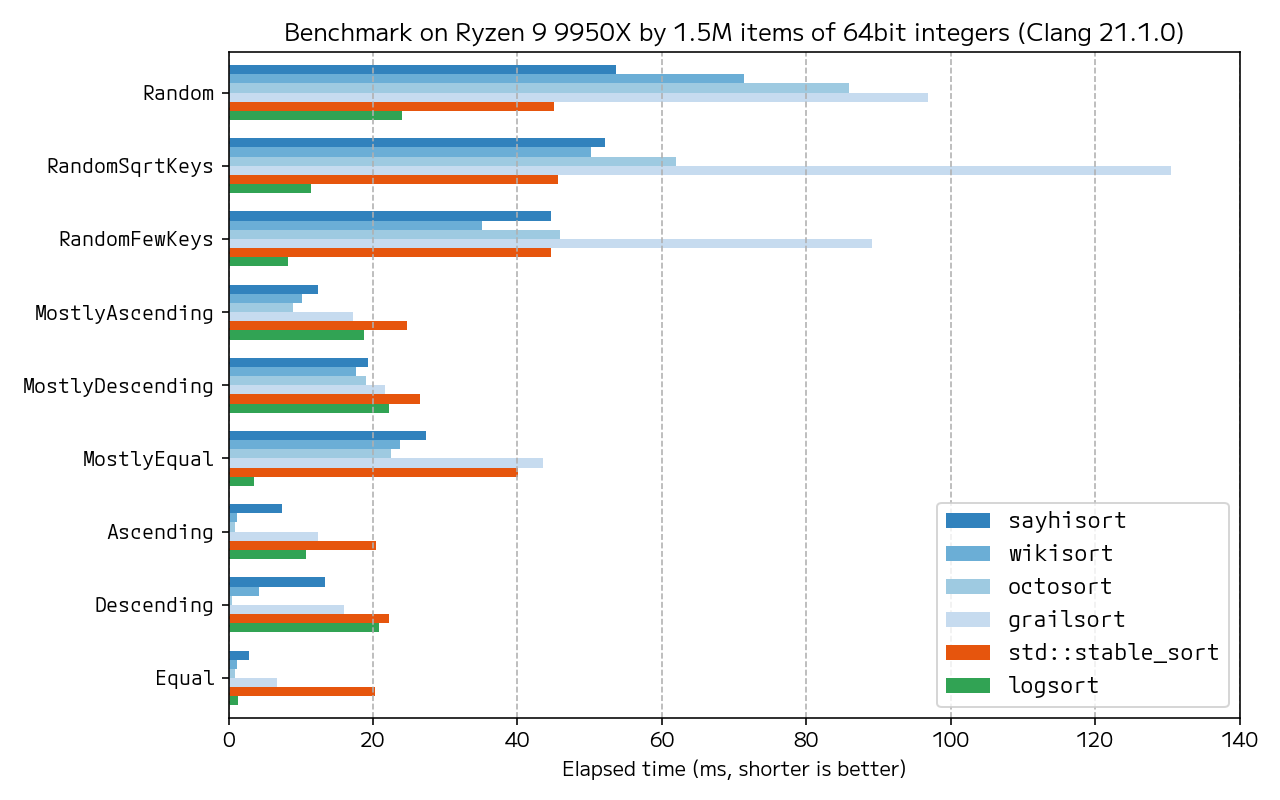
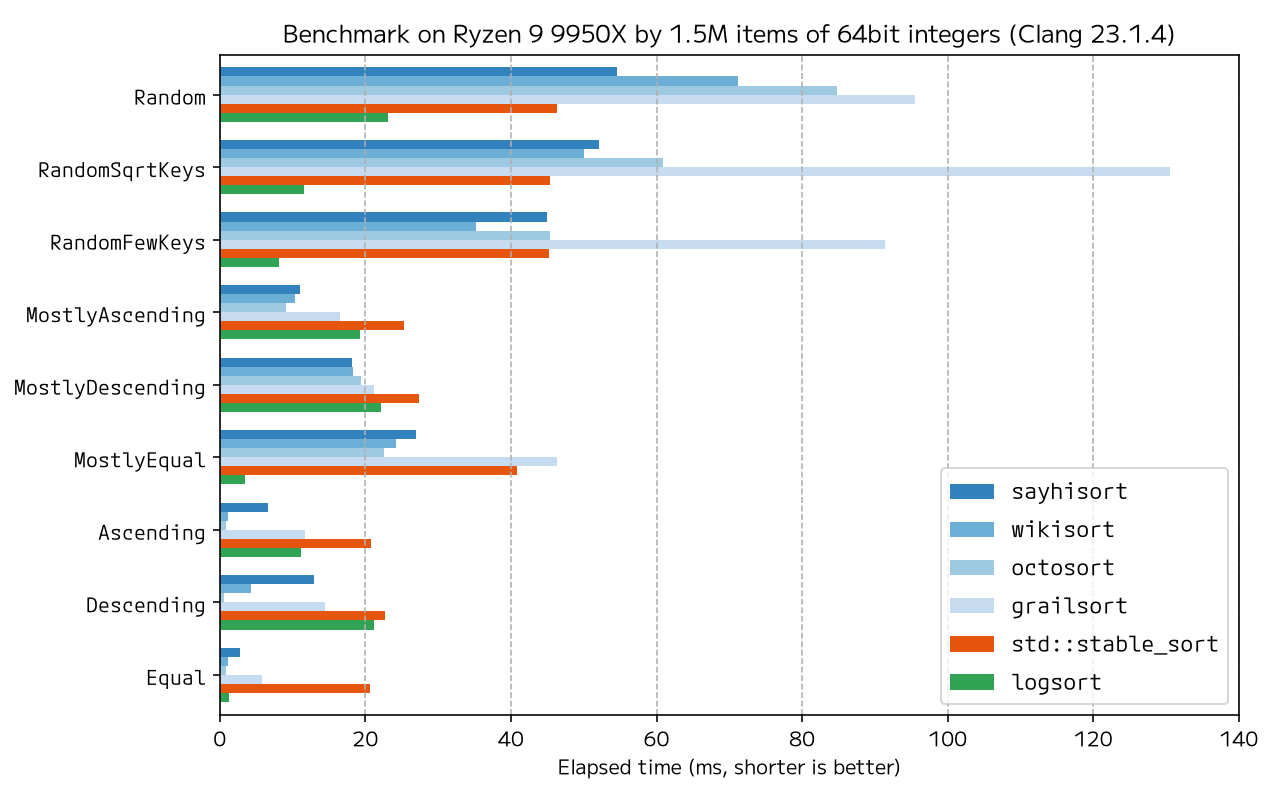
update benchmark result with GCC 16.2.1 and Clang 23.1.4
Also fix the path of the benchmark binary in README.

diff --git a/bench_result/plot.py b/bench_result/plot.py
@@ -63,11 +63,11 @@ def main():
 
     with open("gcc.yml") as f:
         libs, benches, table = load_result(f)
-        plot_data("gcc.png", libs, benches, table, "Benchmark on Ryzen 9 9950X by 1.5M items of 64bit integers (GCC 15.2.0)")
+        plot_data("gcc.png", libs, benches, table, "Benchmark on Ryzen 9 9950X by 1.5M items of 64bit integers (GCC 16.2.1)")
 
     with open("clang.yml") as f:
         libs, benches, table = load_result(f)
-        plot_data("clang.png", libs, benches, table, "Benchmark on Ryzen 9 9950X by 1.5M items of 64bit integers (Clang 21.1.0)")
+        plot_data("clang.png", libs, benches, table, "Benchmark on Ryzen 9 9950X by 1.5M items of 64bit integers (Clang 23.1.4)")
 
 
 if __name__ == "__main__":

diff --git a/README.md b/README.md
@@ -40,9 +40,9 @@ sahisort::sort(R&& range, Comp comp = {}, Proj proj = {});
 
 ## Benchmark
 
-![Benchmark on Ryzen 9 9950X by 1.5M items of 64bit integers (GCC 15.2.0)](bench_result/gcc.png)
+![Benchmark on Ryzen 9 9950X by 1.5M items of 64bit integers (GCC 16.2.1)](bench_result/gcc.png)
 
-![Benchmark on Ryzen 9 9950X by 1.5M items of 64bit integers (Clang 21.1.0)](bench_result/clang.png)
+![Benchmark on Ryzen 9 9950X by 1.5M items of 64bit integers (Clang 23.1.4)](bench_result/clang.png)
 
 Note that other block merge sort implementations ([WikiSort](https://github.com/BonzaiThePenguin/WikiSort/), [octosort](https://github.com/scandum/octosort) and [GrailSort](https://github.com/Mrrl/GrailSort)) use a pre-allocated buffer that stores 512 items. Though the buffer is claimed to be crucial for performance, SayhiSort exhibits competitive speed.
 
@@ -58,14 +58,14 @@ pushd build
 CC=gcc CXX=g++ cmake -DSAYHISORT_THIRDPARTY_BENCH=ON -GNinja ..
 popd
 ninja -C build
-build/test/sayhisort_bench > bench_result/gcc.yml
+build/tests/sayhisort_bench > bench_result/gcc.yml
 
 mkdir build_clang
 pushd build_clang
 CC=clang CXX=clang++ cmake -DSAYHISORT_THIRDPARTY_BENCH=ON -GNinja ..
 popd
 ninja -C build_clang
-build_clang/test/sayhisort_bench > bench_result/clang.yml
+build_clang/tests/sayhisort_bench > bench_result/clang.yml
 
 cd bench_result
 ./plot.py
